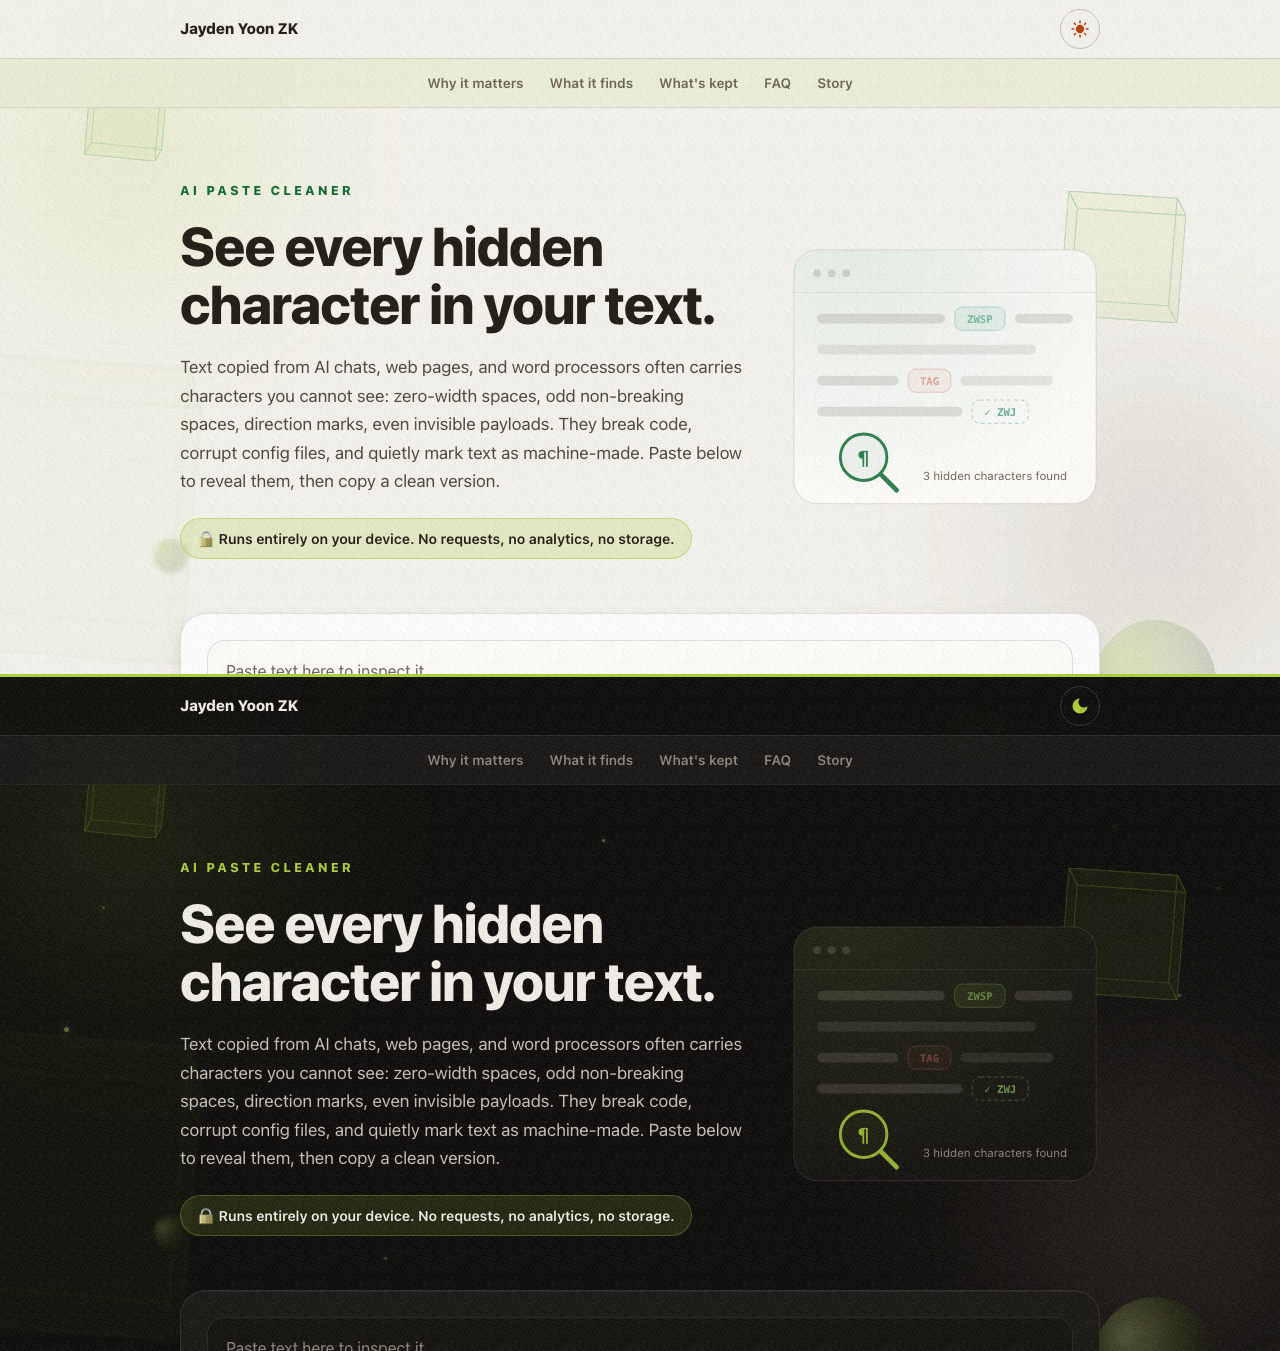
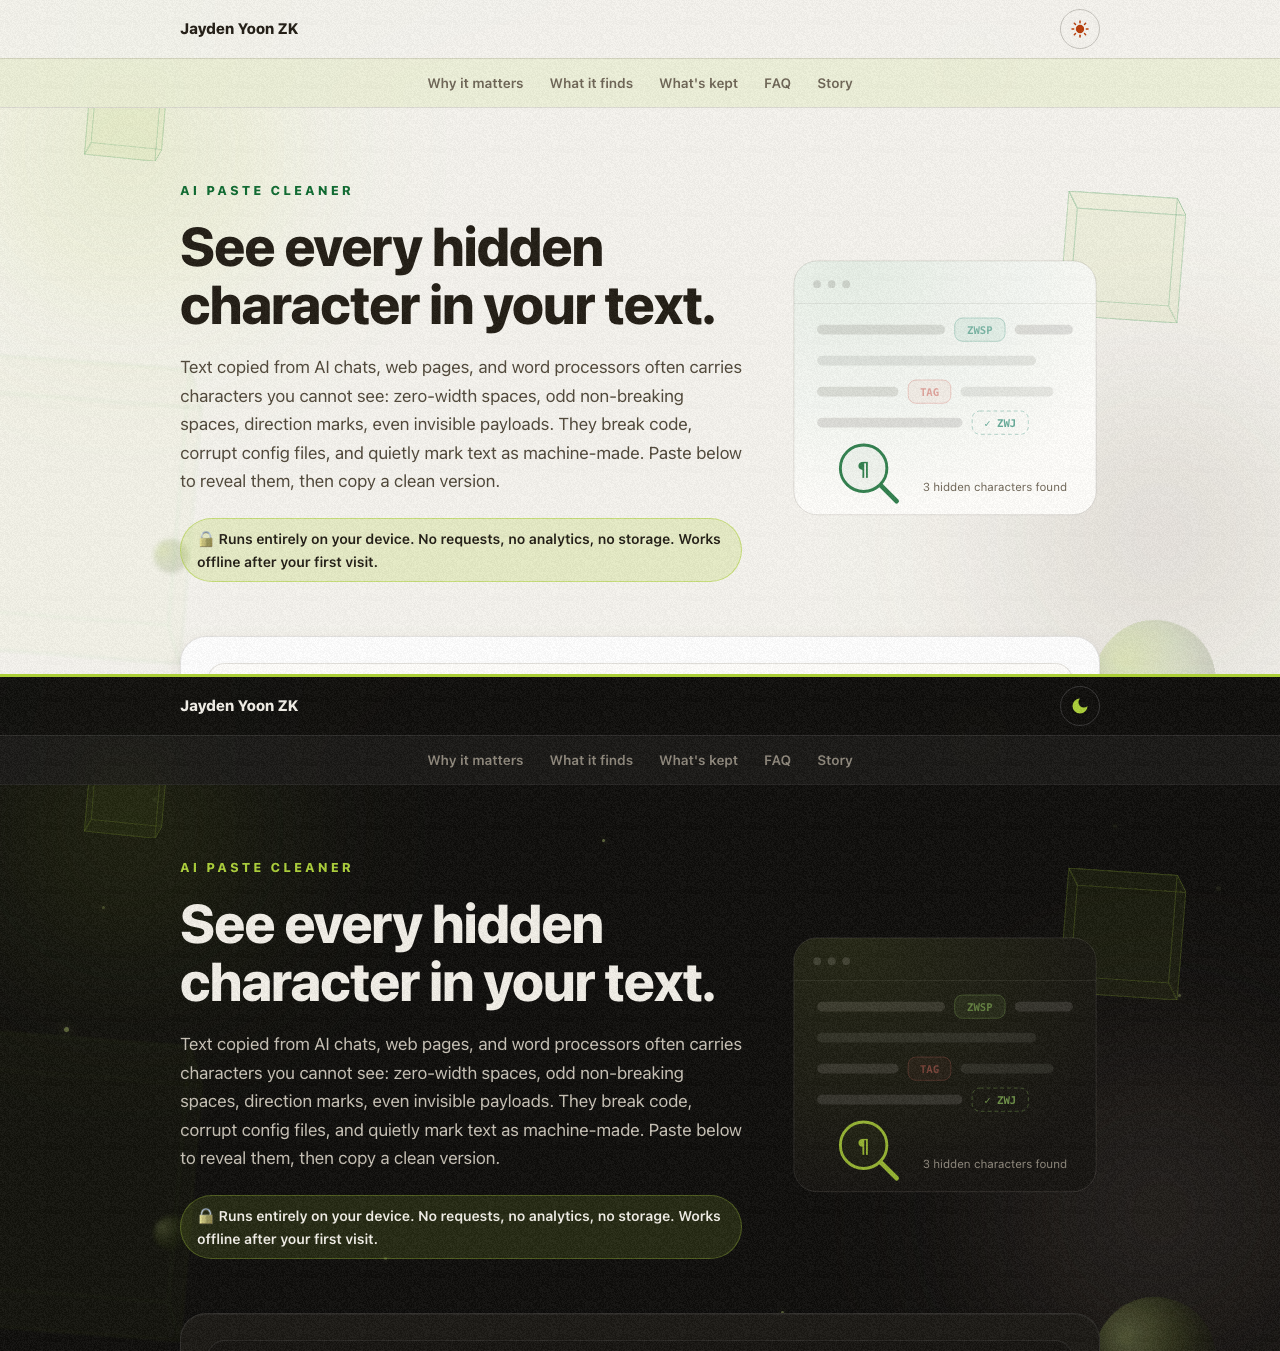
Work offline with a small service worker
The shell is precached on the first visit, repeat visits answer from
cache while refreshing in the background, and old caches drop on
every release. Cross-origin lookups pass through untouched. The
fully client-side tools now state that they work offline. README
previews regenerated.

diff --git a/docs/sw.js b/docs/sw.js
@@ -1,0 +1,54 @@
+/* Offline support. The shell is precached at install, same-origin requests
+   are answered from cache and refreshed in the background, and cross-origin
+   requests pass through untouched so live lookups stay live. The cache name
+   carries the release version and old caches are dropped on activate. */
+
+const VERSION = "?v=1.4.39";
+const CACHE = "ai-paste-cleaner-" + VERSION;
+const SHELL = [
+  "./",
+  "404.html",
+  "notfound.js" + VERSION,
+  "styles.css" + VERSION,
+  "app.js" + VERSION,
+  "cleaner.js" + VERSION,
+];
+
+addEventListener("install", (event) => {
+  event.waitUntil(caches.open(CACHE).then((cache) => cache.addAll(SHELL)).then(() => skipWaiting()));
+});
+
+addEventListener("activate", (event) => {
+  event.waitUntil(
+    caches.keys()
+      .then((keys) => Promise.all(keys.filter((key) => key !== CACHE).map((key) => caches.delete(key))))
+      .then(() => clients.claim())
+  );
+});
+
+addEventListener("fetch", (event) => {
+  const req = event.request;
+  if (req.method !== "GET") return;
+  if (new URL(req.url).origin !== location.origin) return;
+  event.respondWith((async () => {
+    const cache = await caches.open(CACHE);
+    const cached = await cache.match(req);
+    const network = fetch(req).then((res) => {
+      if (res && res.ok) cache.put(req, res.clone());
+      return res;
+    });
+    if (cached) {
+      network.catch(() => { /* offline refresh can wait */ });
+      return cached;
+    }
+    try {
+      return await network;
+    } catch (error) {
+      if (req.mode === "navigate") {
+        const home = await cache.match("./");
+        if (home) return home;
+      }
+      throw error;
+    }
+  })());
+});

diff --git a/docs/index.html b/docs/index.html
@@ -28,7 +28,7 @@
       document.documentElement.dataset.theme = t;
     })();
   </script>
-  <link rel="stylesheet" href="styles.css?v=1.4.38">
+  <link rel="stylesheet" href="styles.css?v=1.4.39">
   <script type="application/ld+json">
   {
     "@context": "https://schema.org",
@@ -122,7 +122,7 @@
     <p class="eyebrow">AI Paste Cleaner</p>
     <h1>See every hidden character in your text.</h1>
     <p class="lede">Text copied from AI chats, web pages, and word processors often carries characters you cannot see: zero-width spaces, odd non-breaking spaces, direction marks, even invisible payloads. They break code, corrupt config files, and quietly mark text as machine-made. Paste below to reveal them, then copy a clean version.</p>
-    <p class="privacy">🔒 Runs entirely on your device. No requests, no analytics, no storage.</p>
+    <p class="privacy">🔒 Runs entirely on your device. No requests, no analytics, no storage. Works offline after your first visit.</p>
     </div>
     <div class="hero-art" aria-hidden="true">
 <svg viewBox="0 0 320 270" xmlns="http://www.w3.org/2000/svg" fill="none">
@@ -284,6 +284,6 @@
 </footer>
 
 <button id="to-top" class="to-top" type="button" aria-label="Back to top">&#8593;</button>
-<script type="module" src="app.js?v=1.4.38"></script>
+<script type="module" src="app.js?v=1.4.39"></script>
 </body>
 </html>

diff --git a/docs/app.js b/docs/app.js
@@ -1,4 +1,4 @@
-import { analyze, clean, CATEGORIES, DEFAULT_OPTIONS } from "./cleaner.js?v=1.4.38";
+import { analyze, clean, CATEGORIES, DEFAULT_OPTIONS } from "./cleaner.js?v=1.4.39";
 
 const $ = (id) => document.getElementById(id);
 const input = $("input");
@@ -481,3 +481,12 @@ if (siteNav) {
     if (sparks.length && !raf) raf = requestAnimationFrame(tick);
   }, { passive: true });
 })();
+
+
+// Offline support: a small service worker caches the page shell so the
+// tool opens without a connection after the first visit.
+if ("serviceWorker" in navigator) {
+  addEventListener("load", () => {
+    navigator.serviceWorker.register("sw.js").catch(() => { /* offline support is optional */ });
+  });
+}

diff --git a/docs/notfound.js b/docs/notfound.js
@@ -193,3 +193,12 @@ if (siteNav) {
     if (sparks.length && !raf) raf = requestAnimationFrame(tick);
   }, { passive: true });
 })();
+
+
+// Offline support: a small service worker caches the page shell so the
+// tool opens without a connection after the first visit.
+if ("serviceWorker" in navigator) {
+  addEventListener("load", () => {
+    navigator.serviceWorker.register("sw.js").catch(() => { /* offline support is optional */ });
+  });
+}

diff --git a/docs/404.html b/docs/404.html
@@ -13,7 +13,7 @@
       document.documentElement.dataset.theme = t;
     })();
   </script>
-  <link rel="stylesheet" href="styles.css?v=1.4.38">
+  <link rel="stylesheet" href="styles.css?v=1.4.39">
 </head>
 <body>
 <a class="skip-link" href="#main">Skip to main content</a>
@@ -148,6 +148,6 @@
     </div>
   </section>
 </main>
-<script src="notfound.js?v=1.4.38"></script>
+<script src="notfound.js?v=1.4.39"></script>
 </body>
 </html>

diff --git a/CHANGELOG.md b/CHANGELOG.md
@@ -3,6 +3,12 @@
 All notable changes to this project are documented here.
 The format is based on [Keep a Changelog](https://keepachangelog.com/en/1.1.0/).
 
+## [1.4.39] - 2026-07-12
+
+### Added
+
+- The tool now works offline. A small service worker caches the page shell on the first visit, answers repeat visits from cache while refreshing in the background, and drops old caches on every release. Since the tool runs entirely in the browser, everything keeps working with no connection at all, and the privacy note now says so.
+
 ## [1.4.38] - 2026-07-11
 
 ### Changed
@@ -389,6 +395,7 @@ First stable release.
 - 21 Node test cases covering the risky preservation paths.
 - `?demo` URL parameter that loads a representative sample.
 
+[1.4.39]: https://github.com/JaydenYoonZK/ai-paste-cleaner/releases/tag/v1.4.39
 [1.4.38]: https://github.com/JaydenYoonZK/ai-paste-cleaner/releases/tag/v1.4.38
 [1.4.37]: https://github.com/JaydenYoonZK/ai-paste-cleaner/releases/tag/v1.4.37
 [1.4.36]: https://github.com/JaydenYoonZK/ai-paste-cleaner/releases/tag/v1.4.36
